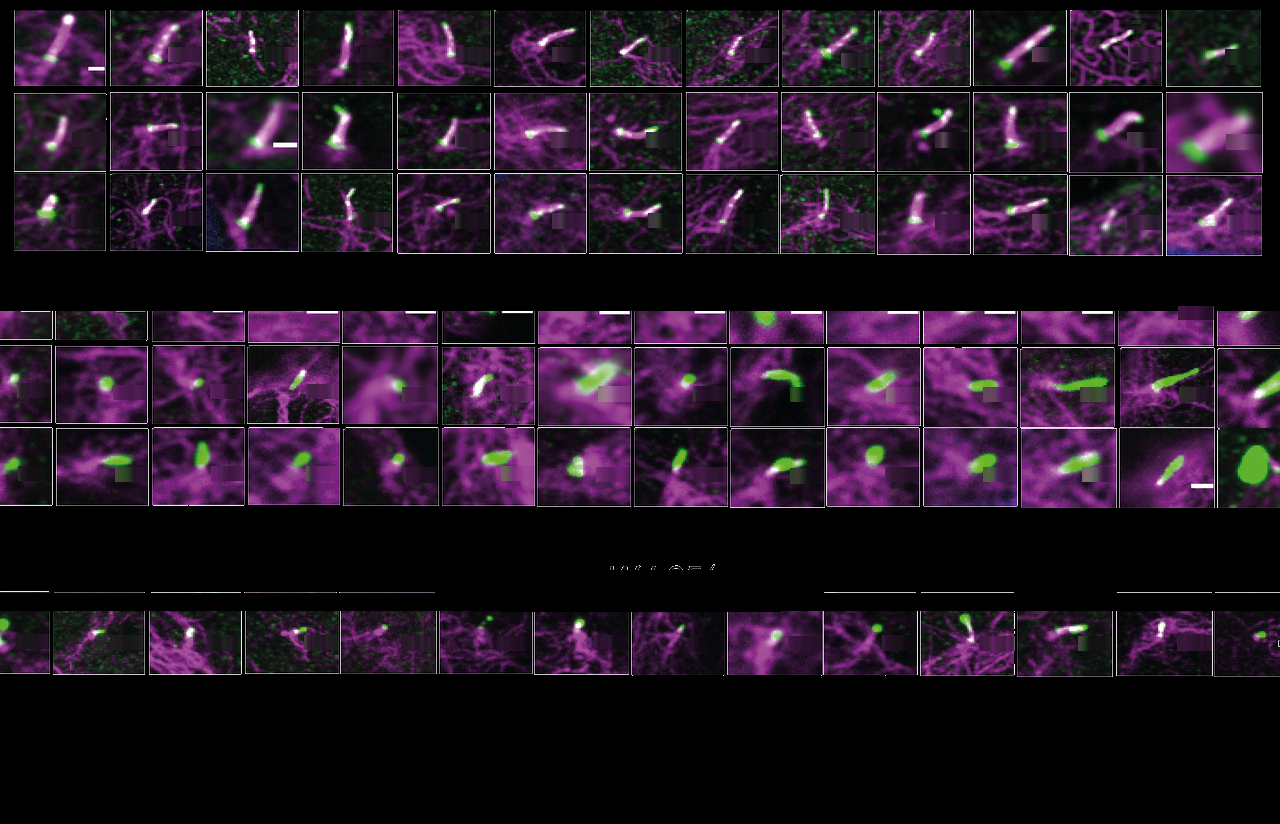
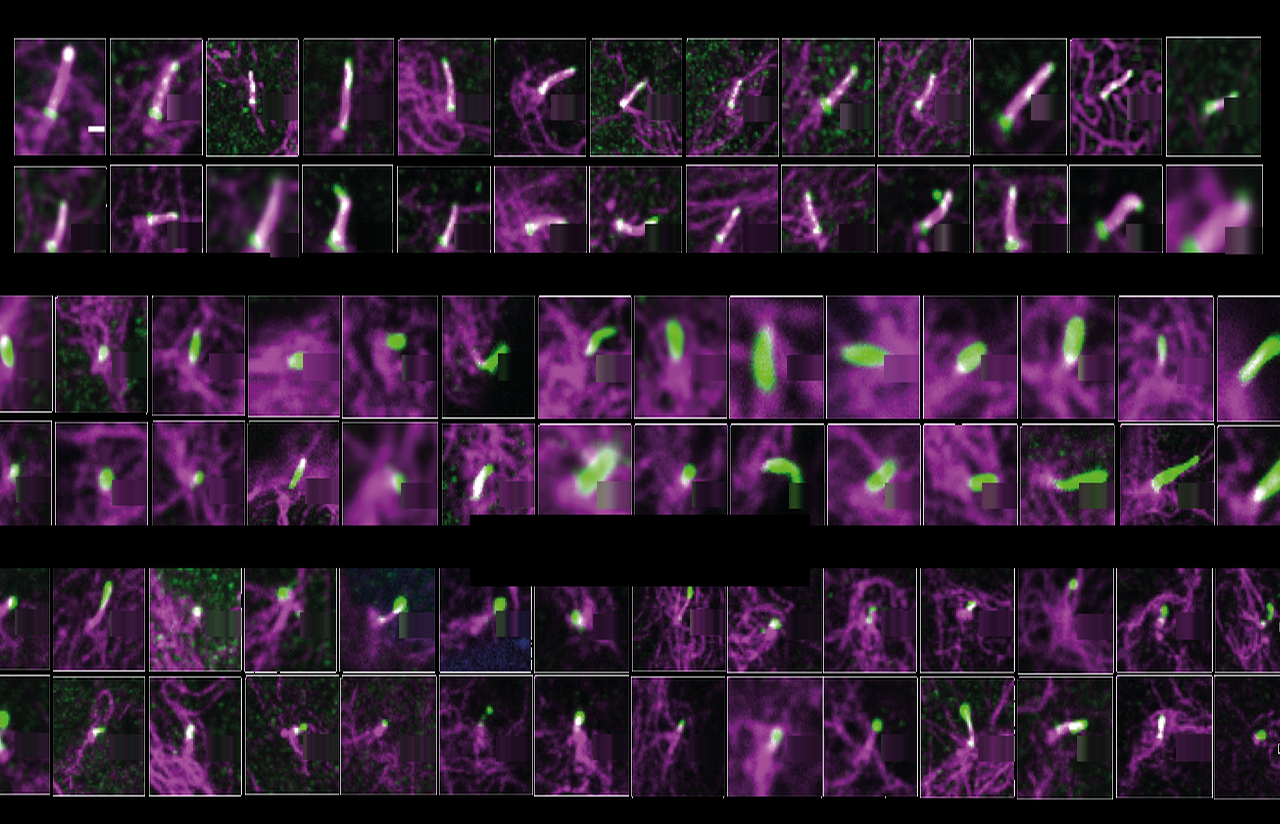
Update IFT88 collage asset

diff --git a/scripts/render_ift88_collage.py b/scripts/render_ift88_collage.py
@@ -5,14 +5,14 @@ from collections import deque
 from pathlib import Path
 
 import numpy as np
-from PIL import Image, ImageFilter
+from PIL import Image
 
 
 INPUT_IMAGE = Path("/Users/data/4_MRC-IGMM/Mill lab/Thesis_06012021/chapter3ciliary phenotype of IFT121/figures/JPEGS/3.11_IFT88collage.png")
 OUTPUT_IMAGE = Path("/Users/toobaquidwai/Downloads/resume_portfolio/assets/media/ift88-collage-rotated.png")
 
-# Crop away only the outer page margin labels, keep the full collage.
 CROP_BOX = (240, 110, 2320, 2935)
+WORKING_SIZE = (1280, 824)
 OUTPUT_SIZE = (1280, 824)
 
 
@@ -48,7 +48,7 @@ def edge_connected_light_mask(arr: np.ndarray, threshold: int = 238) -> np.ndarr
     return visited
 
 
-def scale_bar_boxes(arr: np.ndarray, threshold: int = 230) -> list[tuple[int, int, int, int]]:
+def scale_bar_boxes(arr: np.ndarray, threshold: int = 228) -> list[tuple[int, int, int, int]]:
     bright = (arr[:, :, 0] >= threshold) & (arr[:, :, 1] >= threshold) & (arr[:, :, 2] >= threshold)
     h, w = bright.shape
     visited = np.zeros((h, w), dtype=bool)
@@ -79,11 +79,38 @@ def scale_bar_boxes(arr: np.ndarray, threshold: int = 230) -> list[tuple[int, in
             height = y2 - y1 + 1
             area = len(pts)
 
-            # Repeated scale bars inside the tiles are small, bright, horizontal rectangles.
-            if 20 <= width <= 36 and 4 <= height <= 10 and 120 <= area <= 260 and width / height >= 3.5:
+            if 18 <= width <= 40 and 4 <= height <= 12 and 90 <= area <= 320 and width / max(height, 1) >= 2.8:
                 boxes.append((x1, y1, x2, y2))
 
     return boxes
+
+
+def remove_scale_bars(arr: np.ndarray) -> np.ndarray:
+    result = arr.copy()
+    for x1, y1, x2, y2 in scale_bar_boxes(result):
+        pad_x = 4
+        pad_y = 6
+        sx1 = max(0, x1 - pad_x)
+        sx2 = min(result.shape[1], x2 + pad_x + 1)
+        sy1 = max(0, y1 - pad_y)
+        sy2 = min(result.shape[0], y2 + pad_y + 1)
+
+        above_y1 = max(0, sy1 - (sy2 - sy1))
+        above_y2 = sy1
+        below_y1 = sy2
+        below_y2 = min(result.shape[0], sy2 + (sy2 - sy1))
+
+        samples = []
+        if above_y2 > above_y1:
+            samples.append(result[above_y1:above_y2, sx1:sx2])
+        if below_y2 > below_y1:
+            samples.append(result[below_y1:below_y2, sx1:sx2])
+
+        if samples:
+            replacement = np.concatenate(samples, axis=0).mean(axis=0)
+            replacement = np.repeat(replacement[np.newaxis, :, :], sy2 - sy1, axis=0)
+            result[sy1:sy2, sx1:sx2] = replacement.astype(np.uint8)
+    return result
 
 
 def render() -> None:
@@ -92,63 +119,34 @@ def render() -> None:
     img = Image.open(INPUT_IMAGE).convert("RGB")
     img = img.crop(CROP_BOX)
     img = img.rotate(-90, expand=True)
-    img = img.resize(OUTPUT_SIZE, Image.LANCZOS)
+    img = img.resize(WORKING_SIZE, Image.Resampling.LANCZOS)
 
     arr = np.array(img)
     bg_mask = edge_connected_light_mask(arr)
     arr[bg_mask] = 0
 
-    # Rebuild the collage from the three tile groups only, removing the
-    # genotype labels that sit inside the separator bands while tightening
-    # the vertical spacing between groups.
-    collage = Image.fromarray(arr)
-    top = collage.crop((0, 10, OUTPUT_SIZE[0], 293))
-    middle = collage.crop((0, 381, OUTPUT_SIZE[0], 663))
-    bottom = collage.crop((0, 758, OUTPUT_SIZE[0], 944))
+    working = Image.fromarray(arr)
 
-    gap = 18
-    margin = 10
-    rebuilt = Image.new("RGB", OUTPUT_SIZE, "black")
+    # Two-row bands for each genotype, matching the simplified black-background layout.
+    top = working.crop((0, 0, 1280, 150))
+    middle = working.crop((0, 333, 1280, 484))
+    bottom = working.crop((0, 672, 1280, 824))
+
+    gap = 28
+    margin = 16
+    temp_height = top.height + middle.height + bottom.height + gap * 2 + margin * 2
+    rebuilt = Image.new("RGB", (OUTPUT_SIZE[0], temp_height), "black")
     y = margin
-    rebuilt.paste(top, (0, y))
-    y += top.height + gap
-    rebuilt.paste(middle, (0, y))
-    y += middle.height + gap
-    rebuilt.paste(bottom, (0, y))
+    for band in (top, middle, bottom):
+        rebuilt.paste(band, (0, y))
+        y += band.height + gap
+
     rebuilt_arr = np.array(rebuilt)
+    rebuilt_arr = remove_scale_bars(rebuilt_arr)
+    rebuilt_arr[338:385, 470:810] = 0
 
-    # Clear any residual genotype text sitting in the separator bands.
-    rebuilt_arr[270:302, 430:850] = 0
-    rebuilt_arr[570:602, 470:810] = 0
-    rebuilt_arr[588:612, 500:780] = 0
-
-    # Remove the repeated white scale bars from the rebuilt collage by
-    # replacing each small horizontal annotation with neighboring texture.
-    for x1, y1, x2, y2 in scale_bar_boxes(rebuilt_arr):
-        pad_x = 3
-        pad_y = 5
-        sx1 = max(0, x1 - pad_x)
-        sx2 = min(rebuilt_arr.shape[1], x2 + pad_x + 1)
-        sy1 = max(0, y1 - pad_y)
-        sy2 = min(rebuilt_arr.shape[0], y2 + pad_y + 1)
-
-        above_y1 = max(0, sy1 - (sy2 - sy1))
-        above_y2 = sy1
-        below_y1 = sy2
-        below_y2 = min(rebuilt_arr.shape[0], sy2 + (sy2 - sy1))
-
-        samples = []
-        if above_y2 > above_y1:
-            samples.append(rebuilt_arr[above_y1:above_y2, sx1:sx2])
-        if below_y2 > below_y1:
-            samples.append(rebuilt_arr[below_y1:below_y2, sx1:sx2])
-
-        if samples:
-            replacement = np.concatenate(samples, axis=0).mean(axis=0)
-            replacement = np.repeat(replacement[np.newaxis, :, :], sy2 - sy1, axis=0)
-            rebuilt_arr[sy1:sy2, sx1:sx2] = replacement.astype(np.uint8)
-
-    Image.fromarray(rebuilt_arr).save(OUTPUT_IMAGE, optimize=True)
+    final = Image.fromarray(rebuilt_arr).resize(OUTPUT_SIZE, Image.Resampling.LANCZOS)
+    final.save(OUTPUT_IMAGE, optimize=True)
     print(OUTPUT_IMAGE)
 
 
